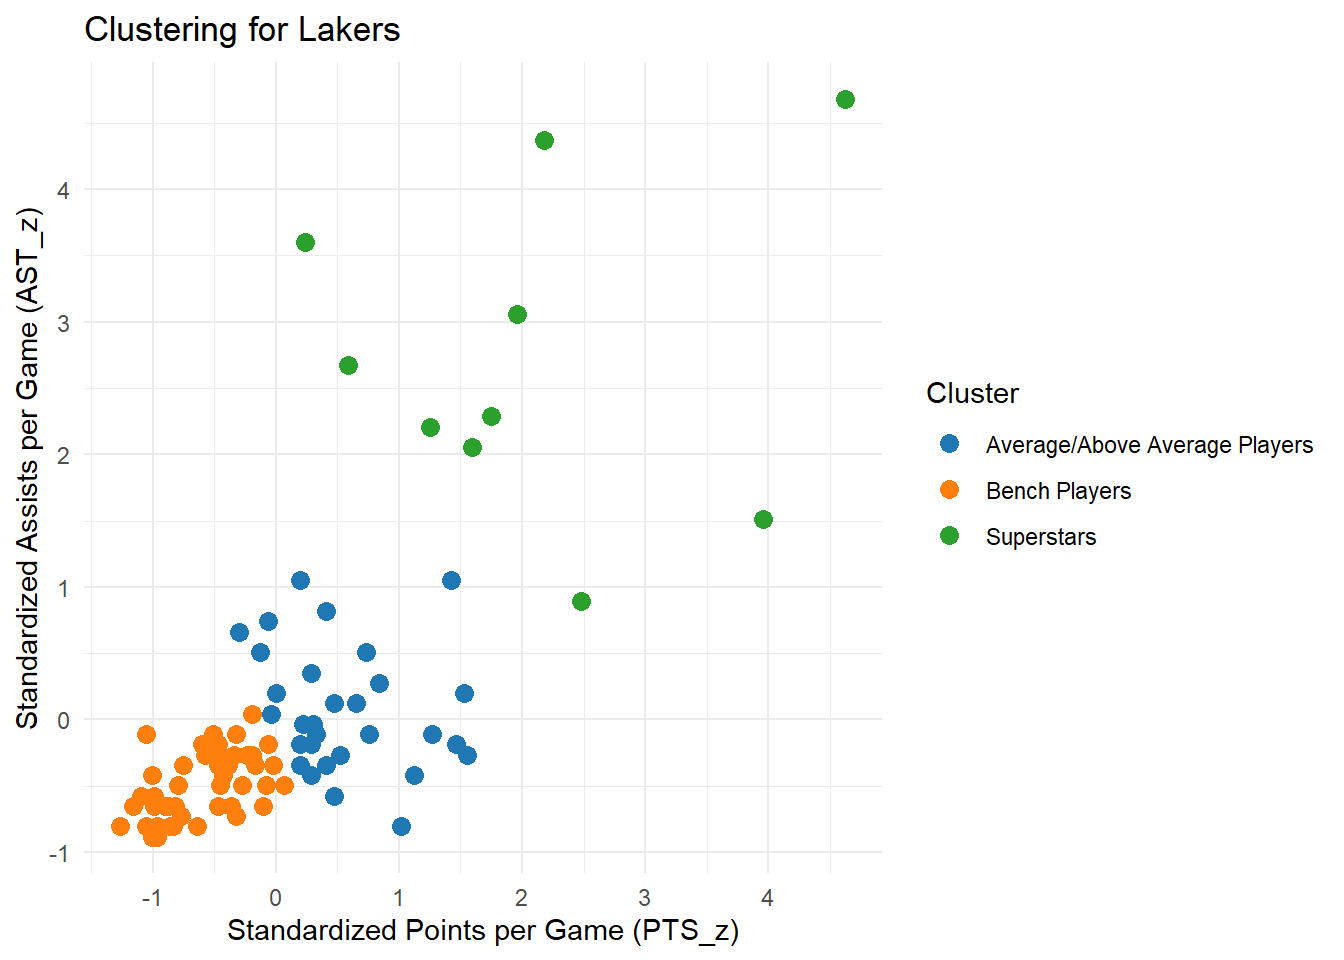
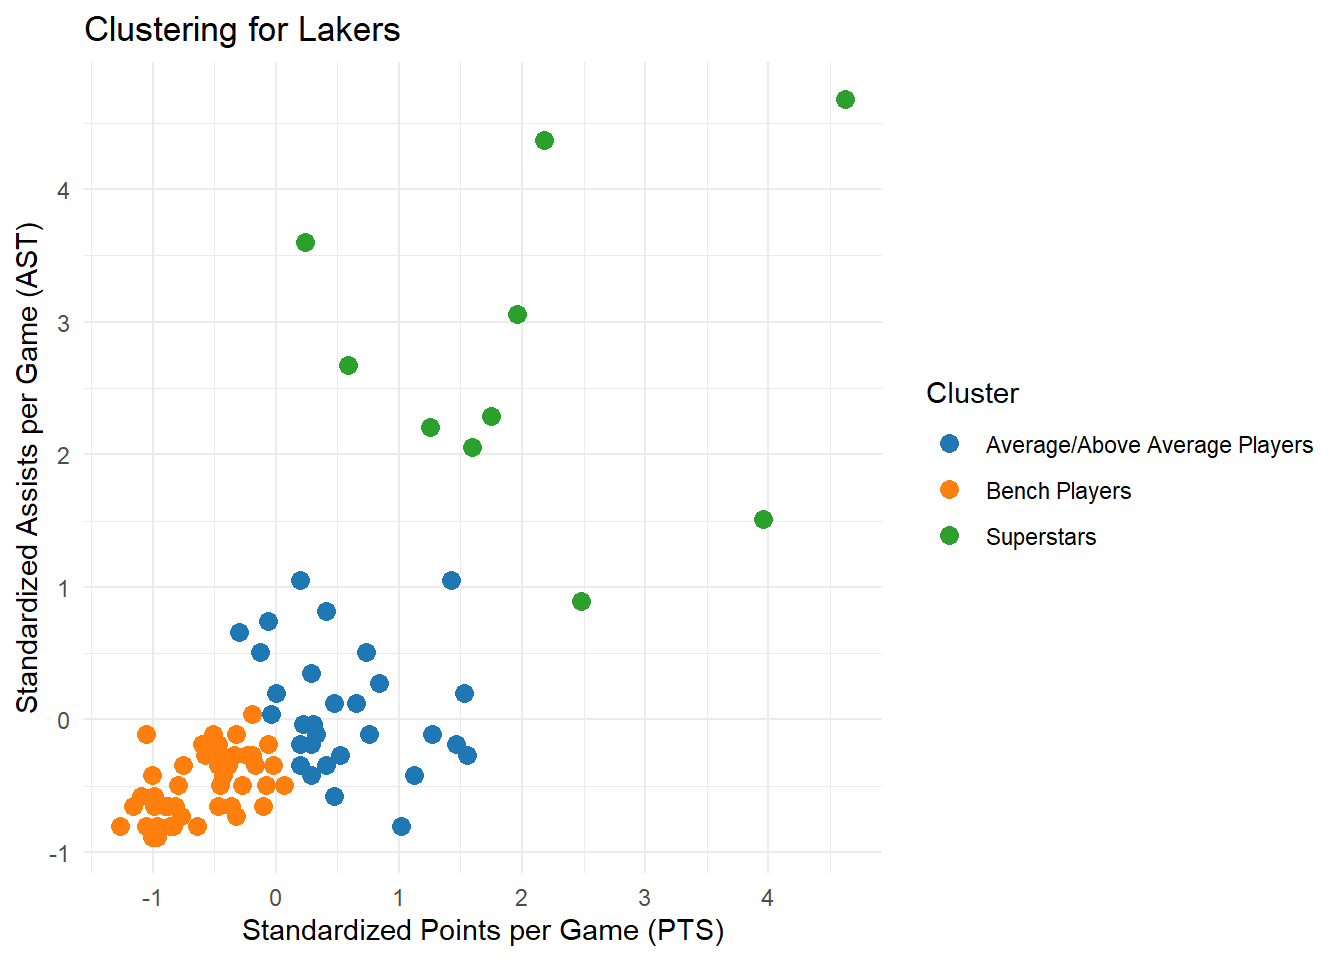
updated plots

Changed region(s): [[0.1562, 0.9375, 0.5625, 1.0], [0.0, 0.2188, 0.0312, 0.75]]

diff --git a/docs/Clustering-page.html b/docs/Clustering-page.html
@@ -123,7 +123,7 @@ ul.task-list li input[type="checkbox"] {
 <span class="menu-text">Clustering</span></a>
   </li>  
   <li class="nav-item">
-    <a class="nav-link" href="./yet-another-page.qmd"> <i class="bi bi-bezier2" role="img">
+    <a class="nav-link" href="./yet-another-page.html"> <i class="bi bi-bezier2" role="img">
 </i> 
 <span class="menu-text">Network Graph</span></a>
   </li>  
@@ -191,7 +191,7 @@ ul.task-list li input[type="checkbox"] {
 
 <section id="introduction" class="level2">
 <h2 class="anchored" data-anchor-id="introduction">Introduction</h2>
-<p>What makes a great teammate for LeBron James? Over a career spanning two decades, four championships, and stints with the Cavaliers, Heat, and Lakers, LeBron has played alongside a wide range of players—some who elevated his game, and others who struggled to make an impact. To explore patterns among his many teammates, I used k-means clustering to group players based on their average points and assists per game while playing with LeBron. I also separated players by team to see how their supporting casts differed across each era. This analysis reveals what types of players surrounded LeBron on each team, offering insights into which rosters were superstar-heavy and which required him to carry more of the load, highlighting just how dominant he was, even when the help was limited.</p>
+<p>What makes a great teammate for LeBron James? Over a career spanning two decades, four championships, and stints with the Cavaliers, Heat, and Lakers, LeBron has played alongside a wide range of players—some who elevated his game, and others who struggled to make an impact. To explore patterns among his many teammates, I used k-means clustering to group players into three groups based on their average points and assists per game while playing with LeBron. I also separated players by team to see how their supporting casts differed across each era. This analysis reveals what types of players surrounded LeBron on each team, offering insights into which rosters were superstar-heavy and which required him to carry more of the load, highlighting just how dominant he was, even when the help was limited.</p>
 </section>
 <section id="the-k-means-analysis" class="level2">
 <h2 class="anchored" data-anchor-id="the-k-means-analysis">The K-means Analysis</h2>
